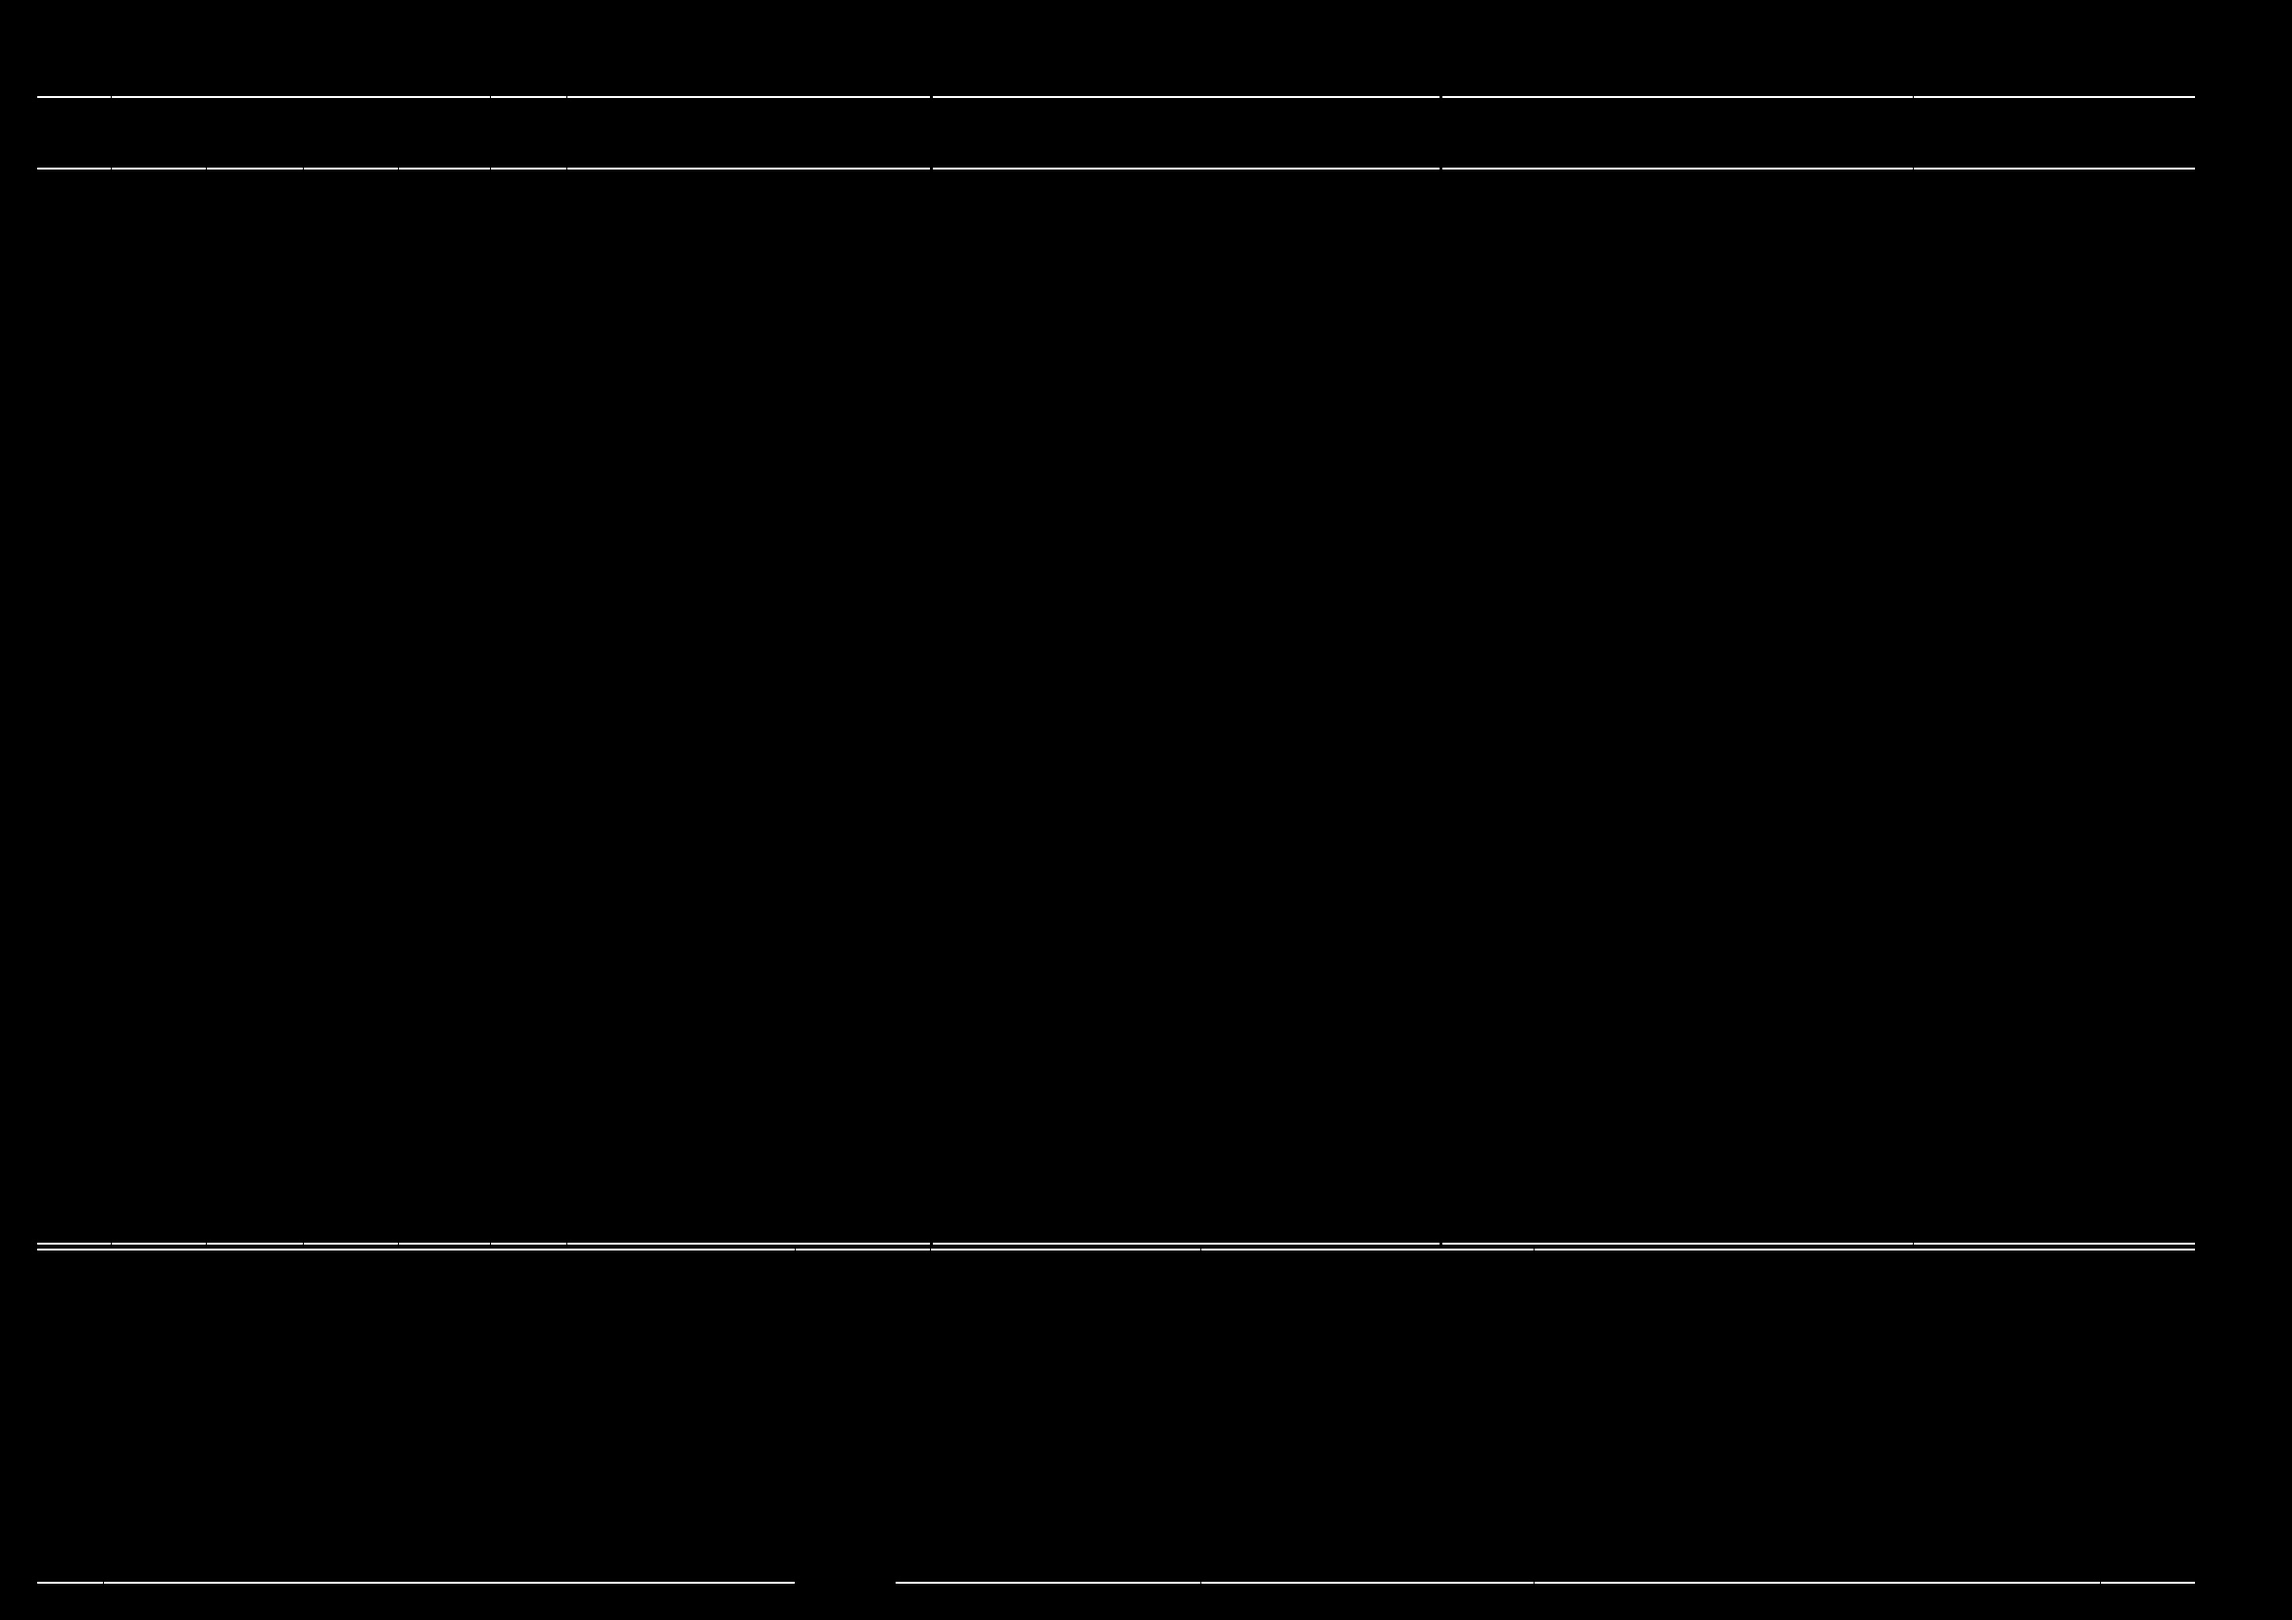
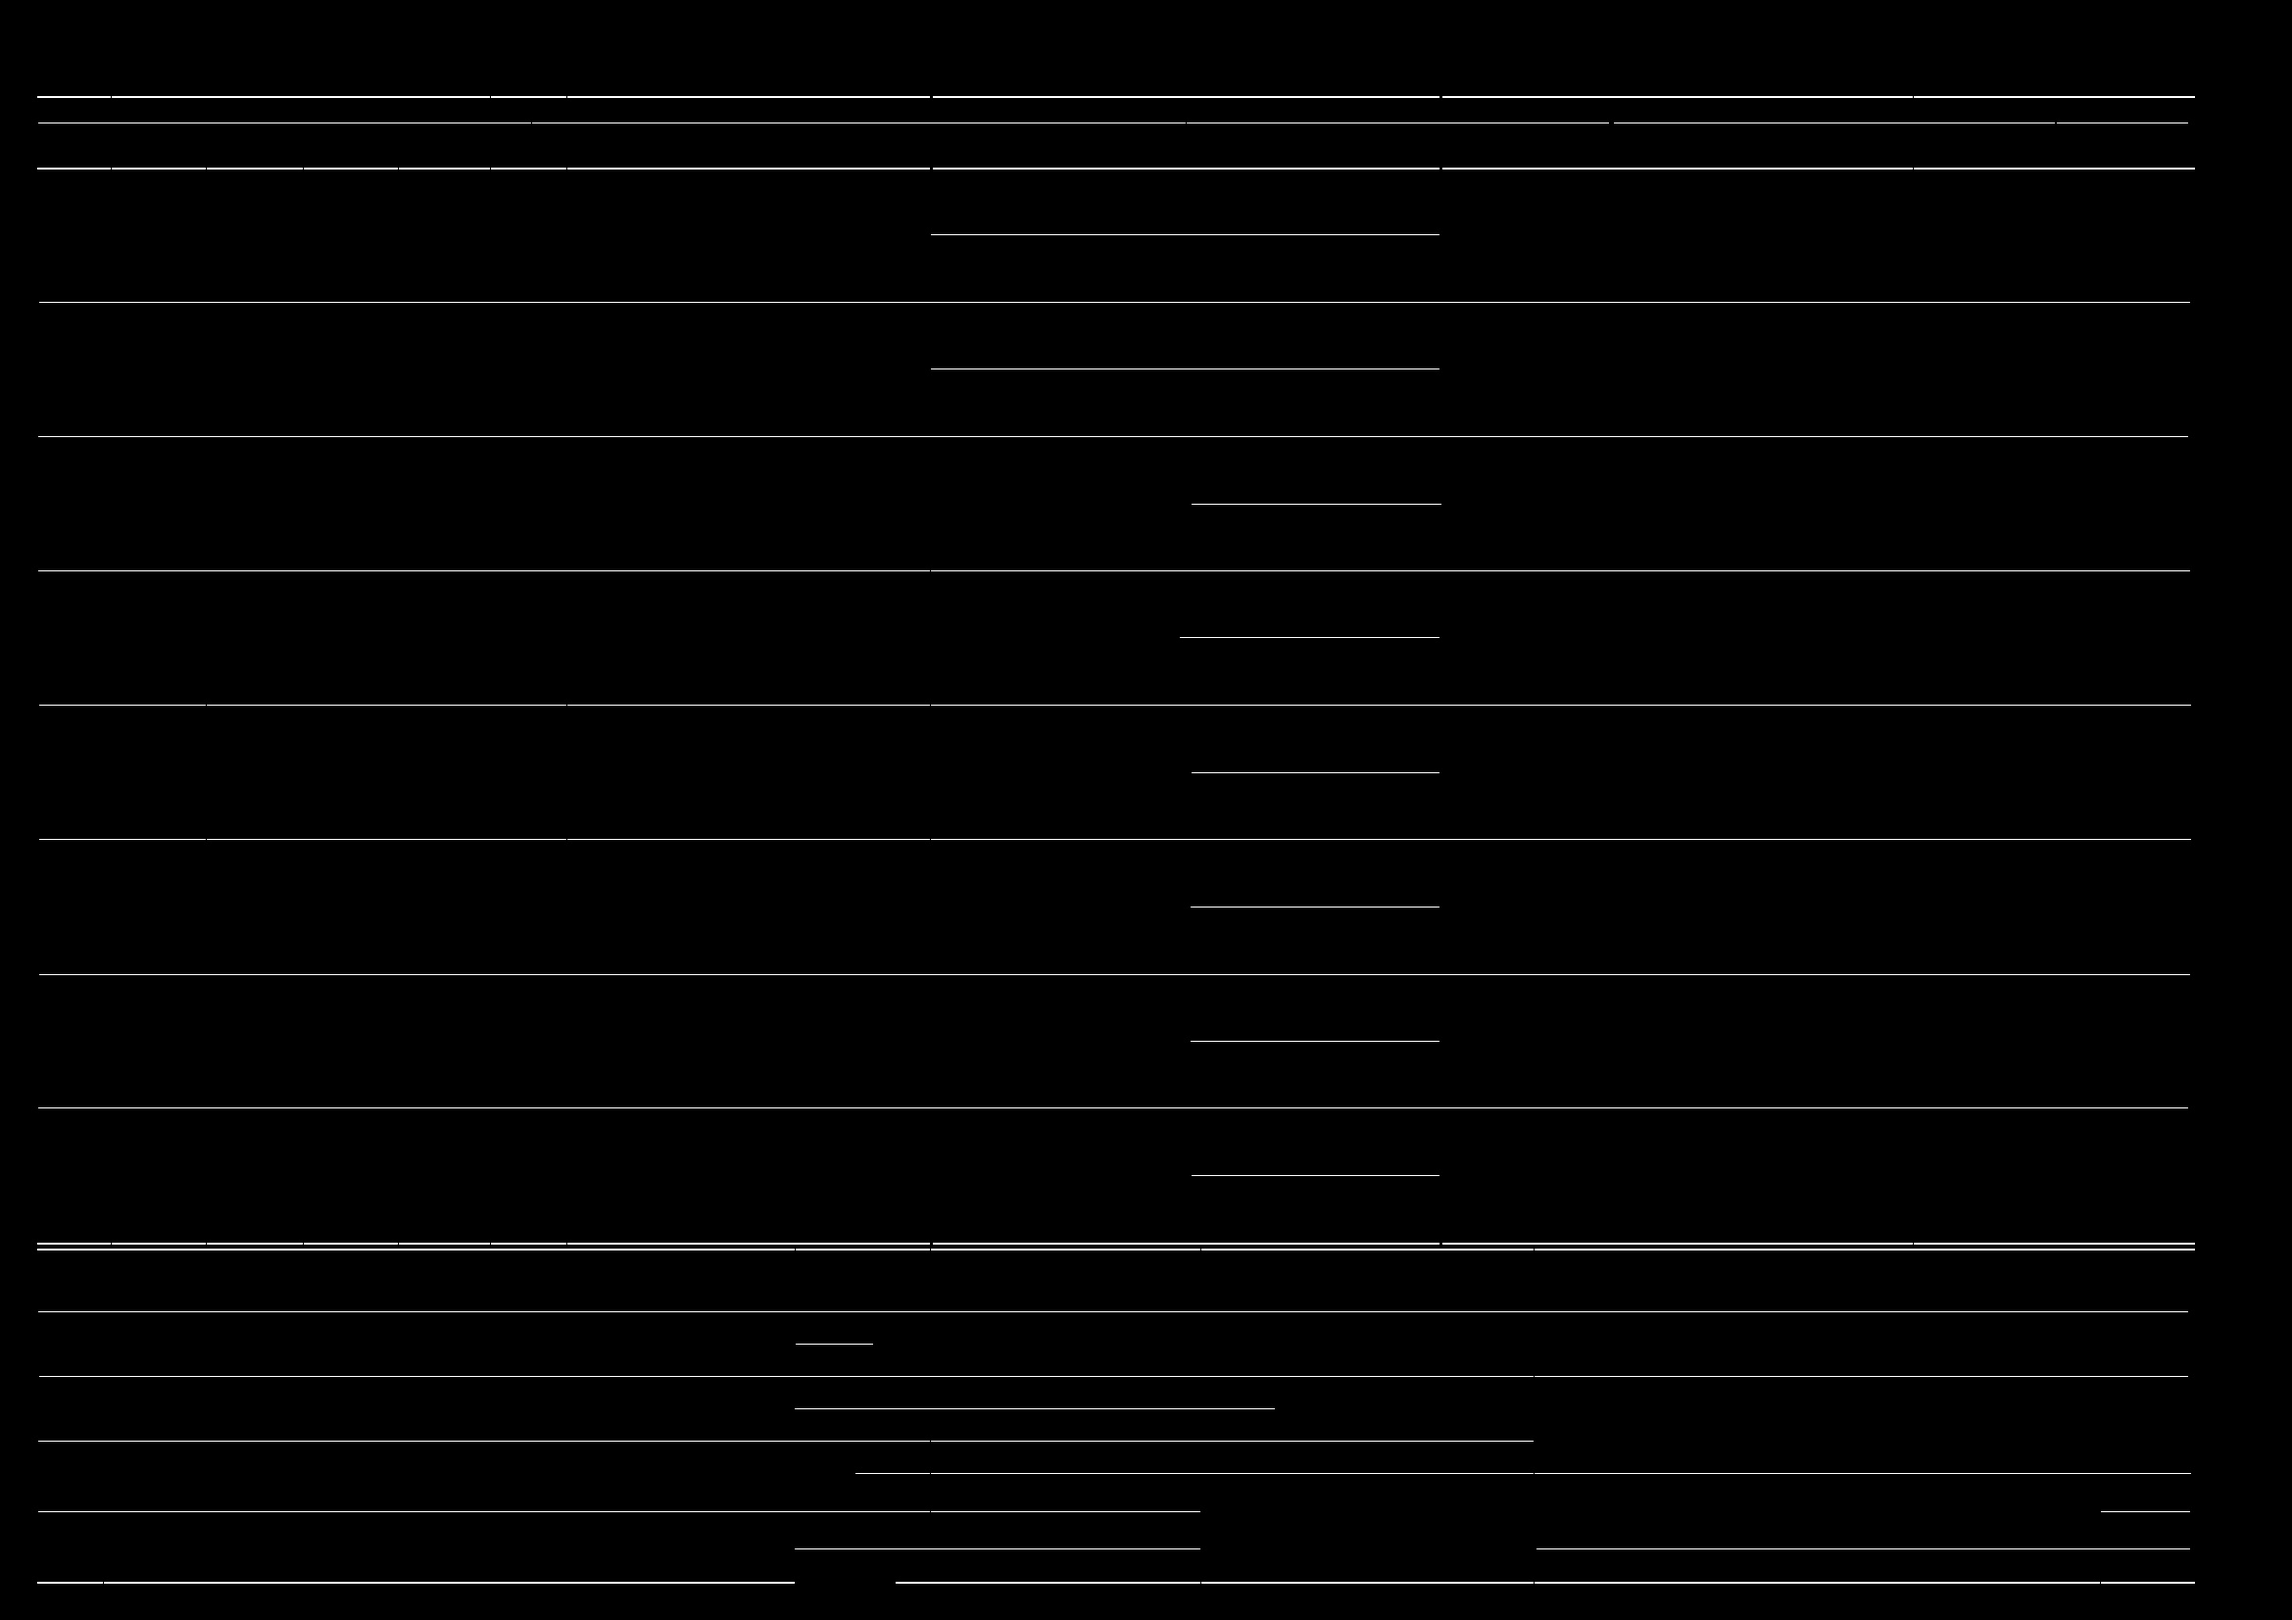
"11_08_2023_2"

diff --git a/main.py b/main.py
@@ -79,7 +79,8 @@ kernel = cv2.getStructuringElement(cv2.MORPH_RECT, (2, 2))
 ########################################################################
 
 # Use vertical kernel to detect and save the vertical lines in a jpg
-image_1 = cv2.erode(img_bin, ver_kernel, iterations=3)
+# image_1 = cv2.erode(img_bin, ver_kernel, iterations=3)
+image_1 = cv2.erode(th3, ver_kernel, iterations=3)
 vertical_lines = cv2.dilate(image_1, ver_kernel, iterations=3)
 cv2.imwrite(str(Path.cwd())+"/vertical.jpg", vertical_lines)
 # Plot the generated image
@@ -87,7 +88,8 @@ plotting = plt.imshow(image_1, cmap='gray')
 plt.show()
 ########################################################################
 # Use horizontal kernel to detect and save the horizontal lines in a jpg
-image_2 = cv2.erode(img_bin, hor_kernel, iterations=3)
+# image_2 = cv2.erode(img_bin, hor_kernel, iterations=3)
+image_2 = cv2.erode(th3, hor_kernel, iterations=3)
 horizontal_lines = cv2.dilate(image_2, hor_kernel, iterations=3)
 cv2.imwrite(str(Path.cwd())+"/horizontal.jpg", horizontal_lines)
 # Plot the generated image
@@ -99,8 +101,10 @@ plt.show()
 img_vh = cv2.addWeighted(vertical_lines, 0.5, horizontal_lines, 0.5, 0.0)
 # Eroding and thesholding the image
 img_vh = cv2.erode(~img_vh, kernel, iterations=2)
-thresh, img_vh = cv2.threshold(
-    img_vh, 128, 255, cv2.THRESH_BINARY | cv2.THRESH_OTSU)
+# thresh, img_vh = cv2.threshold(img_vh, 128, 255, cv2.THRESH_BINARY | cv2.THRESH_OTSU)
+img_vh = cv2.adaptiveThreshold(
+    img_vh, 255, cv2.ADAPTIVE_THRESH_GAUSSIAN_C, cv2.THRESH_BINARY, 11, 2)
+
 cv2.imwrite(str(Path.cwd())+"/img_vh.jpg", img_vh)
 bitxor = cv2.bitwise_xor(img, img_vh)
 bitnot = cv2.bitwise_not(bitxor)
